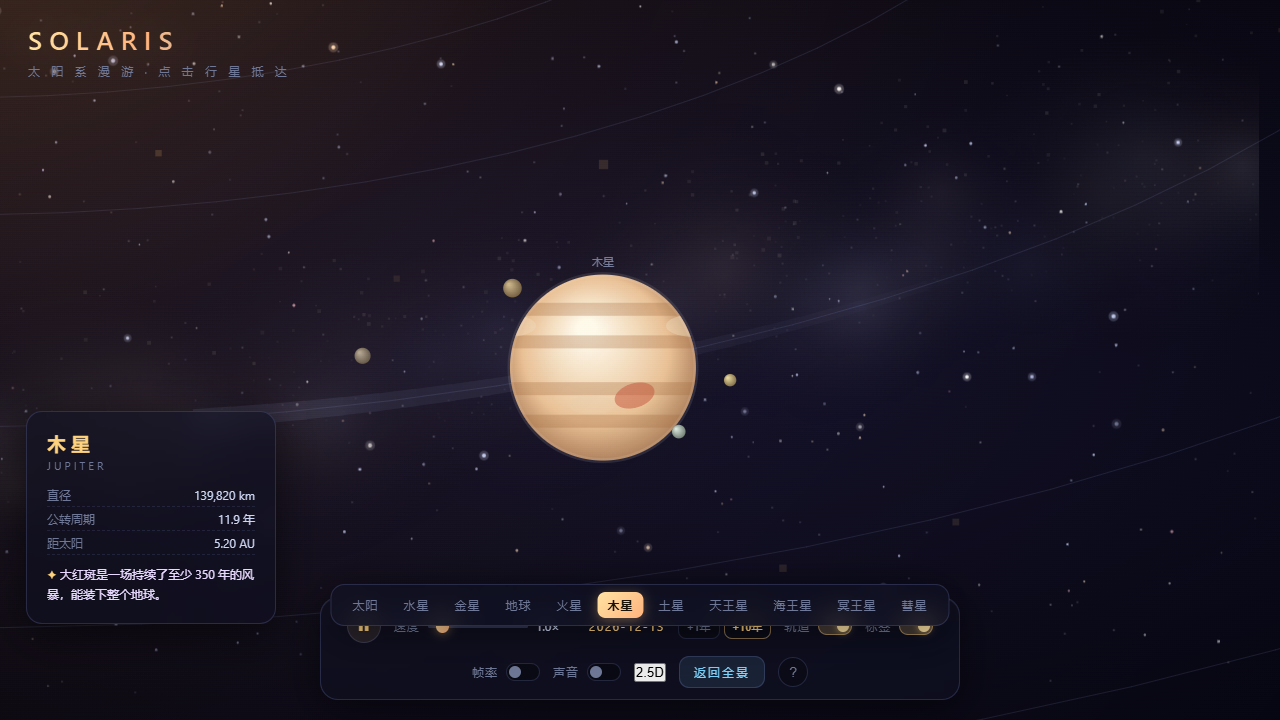
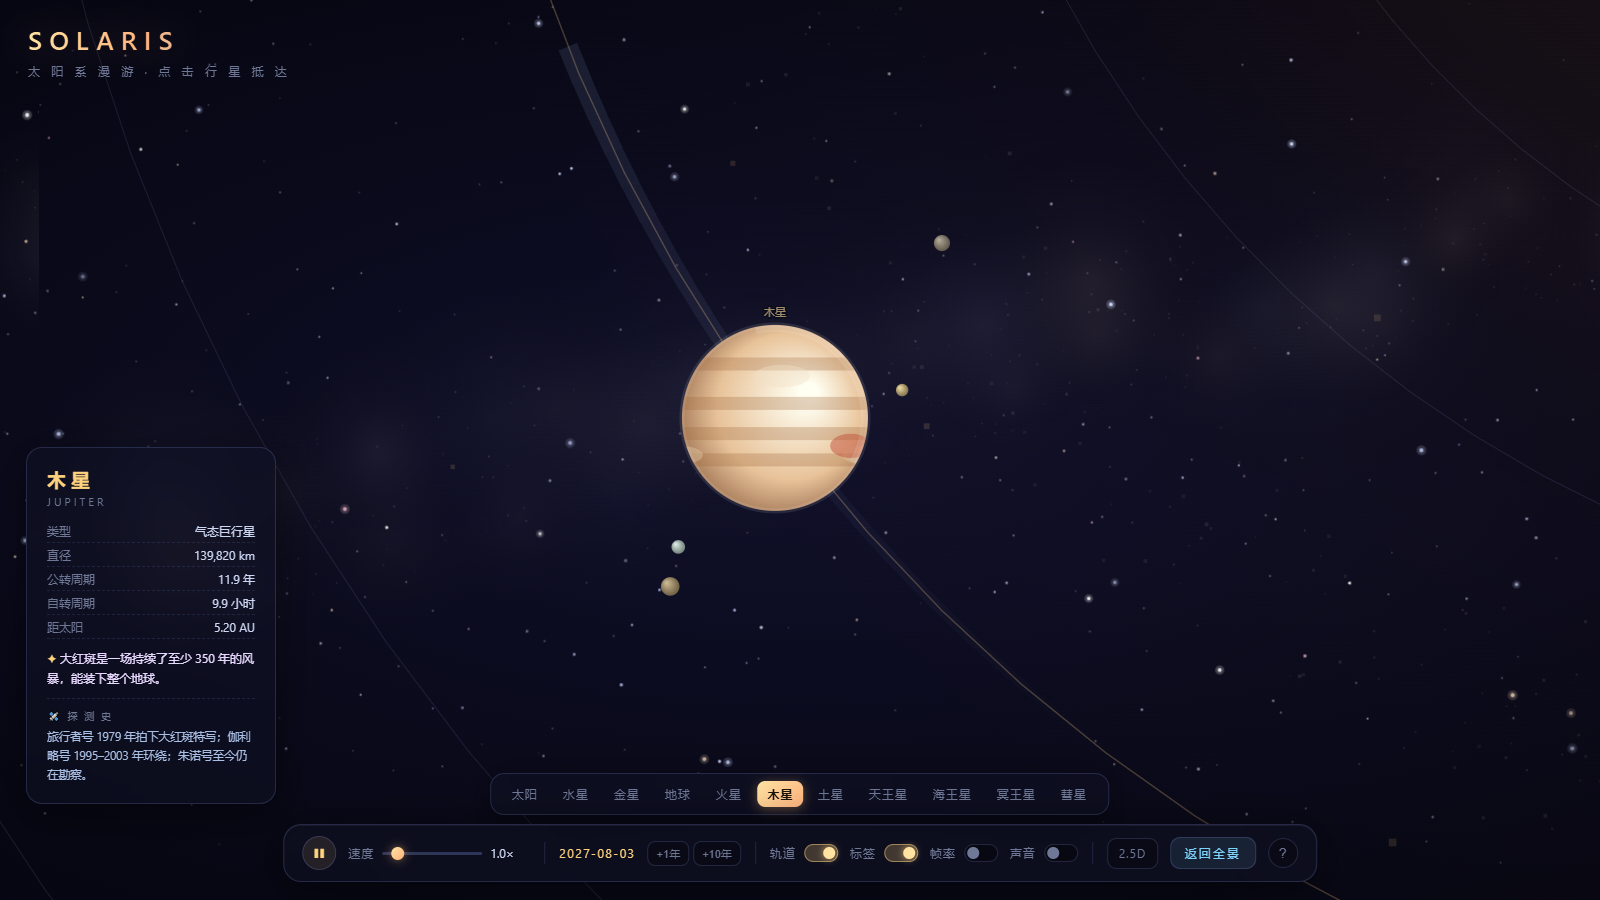
六轮打磨:聚焦轨道高亮、特写标签降噪、键盘无障碍、README 截图全量重制
交互与视觉
- 跟随天体的轨道持续淡金高亮(悬停最亮/跟随次之/普通最淡),
  任何时候都知道自己「在哪条轨道」
- 特写模式(zoom>2.2)下非焦点/悬停标签自动让位,行星特写
  画面干净;焦点标签降透明保留方向指示
- 键盘 ? / H 打开帮助(Esc 关闭),帮助面板同步条目
- 面板/导航按钮 :focus-visible 焦点环(键盘导航可见,
  鼠标点击不显示);canvas 补 role/aria-label

README 截图全量重制(旧图为多轮迭代前的渲染)
- overview:全景+首访引导 toast
- tilt:2.5D 斜视角(行星光照、柯伊伯带、彗尾)
- focus-jupiter:木星特写+伽利略卫星+完整档案卡(类型/自转/
  探测史)+跟随轨道高亮
- lock-jupiter:金色锁定环+档案卡浮现
- warp:曲速线飞行瞬间(木星土星掠过画面)
- hover-orbit:地球悬停(轨道高亮+虚线光环+双语标签)

自动化备注:截图环境窗口被遮挡,rAF 节流至 ~10fps,强制帧
截图仍正常;速度线需手动拉远镜头制造高速捕捉。
验证:?/H 开关帮助、console 零报错,六图逐一目检。

diff --git a/index.html b/index.html
@@ -155,6 +155,10 @@
 
   /* 按压反馈：所有面板/导航按钮统一微缩 */
   #panel button:active, #nav button:active { transform: scale(.92); }
+  /* 键盘导航焦点环（鼠标点击不显示） */
+  #panel button:focus-visible, #nav button:focus-visible {
+    outline: 2px solid rgba(125, 211, 252, .7); outline-offset: 2px;
+  }
 
   /* 系统开启「减弱动态效果」：入场动画与过渡瞬时完成(JS 侧同时关闭曲速线) */
   @media (prefers-reduced-motion: reduce) {
@@ -245,7 +249,7 @@
 </style>
 </head>
 <body>
-<canvas id="stage"></canvas>
+<canvas id="stage" role="img" aria-label="交互式太阳系画布：可拖拽平移、滚轮缩放、点击行星查看档案"></canvas>
 
 <div id="brand"><h1>SOLARIS</h1><p>太 阳 系 漫 游 · 点 击 行 星 抵 达</p></div>
 
@@ -288,6 +292,7 @@
       <tr><td>双指捏合</td><td>触屏设备缩放（与滚轮等效）</td></tr>
       <tr><td><kbd>Esc</kbd> / 空白处</td><td>返回全景视角</td></tr>
       <tr><td><kbd>Space</kbd></td><td>暂停 / 继续时间流动</td></tr>
+      <tr><td><kbd>?</kbd> / <kbd>H</kbd></td><td>打开 / 关闭本指南</td></tr>
       <tr><td>速度滑块</td><td>0（冻结）~ 10× 时间流速</td></tr>
     </table>
     <button id="helpClose">启程</button>
@@ -845,13 +850,17 @@ function render(now) {
       ctx.closePath();
     };
     for (const b of BODIES) {
-      ctx.strokeStyle = hb === b ? "rgba(255, 214, 150, 0.42)" : "rgba(150, 170, 230, 0.13)";
-      ctx.lineWidth = hb === b ? 1.8 / cam.zoom : 1 / cam.zoom;   // 悬停轨道加粗一档
+      // 悬停最亮、当前跟随次之(始终知道自己"在哪条轨道")
+      const hl = hb === b ? 2 : focusBody === b ? 1 : 0;
+      ctx.strokeStyle = hl === 2 ? "rgba(255, 214, 150, 0.42)" : hl === 1 ? "rgba(255, 210, 130, 0.26)" : "rgba(150, 170, 230, 0.13)";
+      ctx.lineWidth = (hl === 2 ? 1.8 : hl === 1 ? 1.4 : 1) / cam.zoom;
       orbitPath(b.r, b.omega);
       ctx.stroke();
     }
     // 彗星轨道
-    ctx.strokeStyle = hb === comet ? "rgba(140, 220, 250, 0.38)" : "rgba(120, 200, 235, 0.10)";
+    const cHl = hb === comet ? 2 : focusBody === comet ? 1 : 0;
+    ctx.strokeStyle = cHl === 2 ? "rgba(140, 220, 250, 0.38)" : cHl === 1 ? "rgba(140, 215, 245, 0.24)" : "rgba(120, 200, 235, 0.10)";
+    ctx.lineWidth = (cHl === 2 ? 1.8 : cHl === 1 ? 1.4 : 1) / cam.zoom;
     const cO = comet.omega, ca = comet.a, ce = comet.e;
     ctx.beginPath();
     for (let i = 0; i <= ORB_SEGS; i++) {
@@ -957,10 +966,12 @@ function render(now) {
     const prio = [focusBody, hb].filter(Boolean);
     const labeled = [...new Set([...prio, ...BODIES, comet])];
     const placed = [];
+    const closeup = cam.zoom > 2.2;          // 特写模式:非焦点/悬停标签让位,画面干净
     for (const b of labeled) {
       const p = focusPos(b);
       const s = w2s(p.x, p.y);
       if (s.x < -40 || s.x > W + 40 || s.y < -20 || s.y > H + 20) continue;
+      if (closeup && b !== focusBody && b !== hb) continue;
       const ly = s.y - Math.max(b.size * cam.zoom, 8) - 9;
       if (!prio.includes(b) && placed.some(q => Math.abs(q[0] - s.x) < 30 && Math.abs(q[1] - ly) < 12)) continue;
       placed.push([s.x, ly]);
@@ -968,7 +979,7 @@ function render(now) {
       ctx.lineWidth = 3;
       ctx.strokeStyle = "rgba(8, 10, 24, .75)";
       ctx.strokeText(b.name, s.x, ly);
-      ctx.fillStyle = hb === b ? "rgba(255, 225, 160, .95)" : "rgba(190, 205, 245, .55)";
+      ctx.fillStyle = hb === b ? "rgba(255, 225, 160, .95)" : b === focusBody ? "rgba(255, 225, 160, .6)" : "rgba(190, 205, 245, .55)";
       ctx.fillText(b.name, s.x, ly);
     }
   }
@@ -1420,6 +1431,7 @@ window.addEventListener("keydown", e => {
   }
   if (e.code === "Space") { e.preventDefault(); togglePause(); }
   else if (e.key === "Escape") setFocus(null);
+  else if (e.key === "?" || e.key === "h" || e.key === "H") help.classList.add("show");
   else if (e.key === "v" || e.key === "V") document.getElementById("tiltBtn").click();
   else if (e.key === "+" || e.key === "=") cam.tzoom = clamp(cam.tzoom * 1.3, ZMIN, ZMAX);   // 围绕焦点推近
   else if (e.key === "-" || e.key === "_") cam.tzoom = clamp(cam.tzoom / 1.3, ZMIN, ZMAX);
